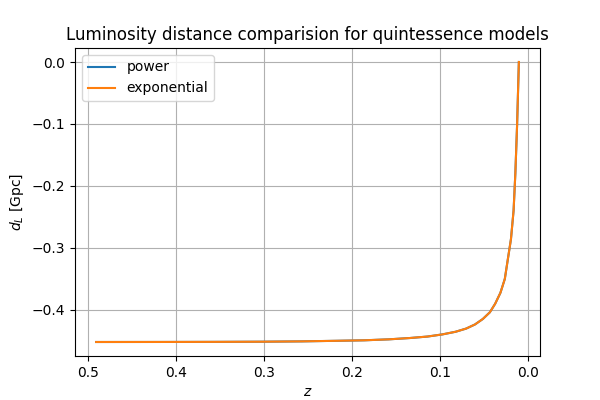
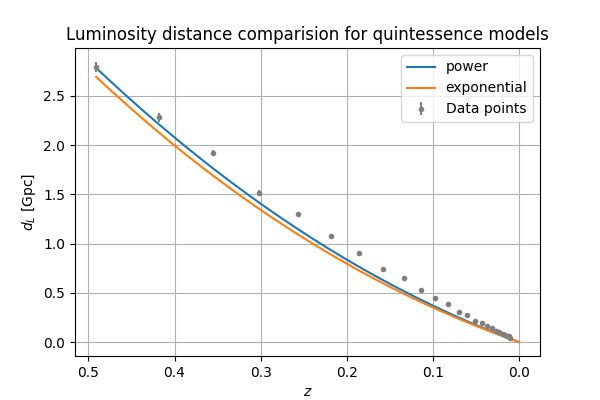
idfk

diff --git a/Projects/Project 1/scripts/problem13.py b/Projects/Project 1/scripts/problem13.py
@@ -3,6 +3,7 @@ import os
 import numpy as np
 import matplotlib.pyplot as plt
 
+from problem9 import N_i, N_f
 from problem12 import luminosity_distance_quintessence
 
 # Path to the data file
@@ -60,23 +61,15 @@ def plot_luminosity_distances(
 
     # Load data
     z, d_data, d_err = np.loadtxt(DATA_PATH, skiprows=5, unpack=True)  # [-, Gpc, Gpc]
-    # print(z)
-    # print(d_data)
-    # print()
 
     # Plot the two quintessence models
     for V in ["power", "exponential"]:
-        d_model = luminosity_distance_quintessence(V, z=z)[-1]
-        # zi, d_model = luminosity_distance_quintessence(
-        #     V, np.log(1 / (1 + z[-1])), np.log(1 / (1 + z[0]))
-        # )
-        # print(zi)
-        # print(d_model)
-        # plt.plot(z, d_model * c / H_0, label=V)  # convert to Gpc when plotting
-        plt.plot(z, d_model, label=V)  # convert to Gpc when plotting
+        # d_model = luminosity_distance_quintessence(V, 2, z=z)[-1]
+        z_model, d_model = luminosity_distance_quintessence(V, z[-1], N_i, N_f)
+        plt.plot(z_model, d_model * c / H_0, label=V)  # convert to Gpc when plotting
 
     # Plot the data
-    # plt.errorbar(z, d_data, yerr=d_err, fmt=".", label="Data points", color="gray")
+    plt.errorbar(z, d_data, yerr=d_err, fmt=".", label="Data points", color="gray")
 
     plt.xlabel("$z$")
     plt.ylabel("$d_L$ [Gpc]")
@@ -102,13 +95,22 @@ def print_chi_squared_values() -> None:
 
     # Model predictions
     for V in ["power", "exponential"]:
-        d_model = luminosity_distance_quintessence(V, z=z)[-1]
+        z_model, d_model = luminosity_distance_quintessence(V, z[-1], N_i, N_f)
         d_model *= c / H_0  # convert to Gpc
+
+        # Cut model to data range
+        # For each z from data, find corresponding d_model value
+        tol = 1e-5
+        d = []
+        for zi in z:
+            ind = np.where(abs(zi - z_model) < tol)[0][0]
+            d.append(d_model[ind])
+
         print(
-            f"Chi-squared value for {V}-potential: {chi_squared(d_model, d_data, d_err)}"
+            f"Chi-squared value for {V}-potential: {chi_squared(d, d_data, d_err):.4f}"
         )
 
 
 if __name__ == "__main__":
     plot_luminosity_distances()
-    # print_chi_squared_values()
+    print_chi_squared_values()
